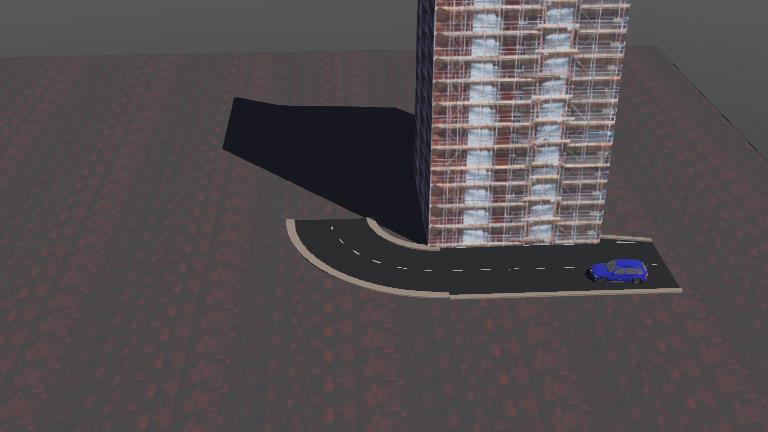
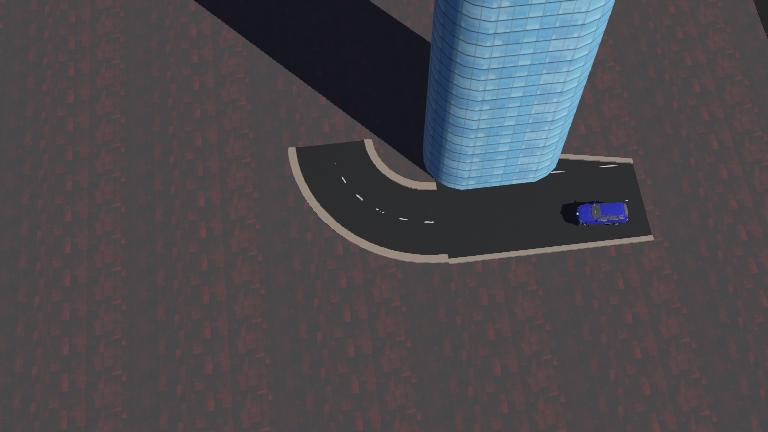
Trying the new code
In this update, I've tried changing parts of my code with the example that was given. While it is a far simpler version of the math that they use, I believe it has some merit to it

diff --git a/controllers/Hondaodyssey/Hondaodyssey.py b/controllers/Hondaodyssey/Hondaodyssey.py
@@ -97,31 +97,25 @@ while driver.step() != -1:
             pixel_count = 0
             
             #Scan the bottom section of the screen
-            start_y = int(height * 0.4)
+            start_y = int(height * 0.6)
             end_y = int(height * 0.9)
             #STOP GOING TO THE LEFT
-            start_x = int(width * 0.4)
             for y in range(start_y, end_y, 2):
-                for x in range(start_x, width, 2):
+                for x in range(int(width * 0.5), width, 2): # Look at the WHOLE road
                     #Finding the pixel colors:
                     r, g, b = image[x][y]
                     brightness = r + g + b
-                    
                     #if the pixels are very bright:
-                    r_prev, g_prev, b_prev = image[x-2][y]
-                    prev_brightness = r_prev + g_prev + b_prev
+                    is_white = brightness > 400 and abs(r - g) < 60 
+                    is_yellow = r > 160 and g > 130 and b < 100 and (r - b) > 60
                     
-                    edge_strength = abs(brightness - prev_brightness)
-                    
-                    #if the pixels are very bright:
-                    if edge_strength > 150 and brightness > 350: 
+                    if is_white or is_yellow:
                         sum_x += x
                         pixel_count += 1
-            
             #left lane keeping logic
-            if pixel_count > 0:
+            if pixel_count > 6:
                 average_x = sum_x / pixel_count
-                target_x = width * 0.85 
+                target_x = width * 0.75 
                 
                 error = (average_x - target_x) / width #Error = how far it is from the center
                 
@@ -130,22 +124,20 @@ while driver.step() != -1:
                 d_term = (error - last_error) * 10.0
                 current_steering = p_term + d_term
                 
+                turn_factor = 1.0 - abs(current_steering) * 1.2
+                current_speed = max(5.0, 20.0 * turn_factor)
+                
                 last_error = error
                 last_steering = current_steering
+                driver.setBrakeIntensity(0.0)
             else:
                 #FIND THE LINE TWIN
-                if last_error > 0:
-                    current_steering = 0.5
-                elif last_error < 0:
-                    current_steering = -0.5
-                else:
-                    current_steering = 0.0
+                driver.setBrakeIntensity(0.2)
+                current_steering = last_steering
+                current_speed = 4.0
             print(f"I see {pixel_count} pixels. Steering: {current_steering}")
     #Safety clamp for the Honda steering limits
-    if current_steering > 0.5:
-        current_steering = 0.5
-    elif current_steering < -0.5:
-        current_steering = -0.5
+    current_steering = max(-0.5, min(0.5, current_steering))
         
     driver.setCruisingSpeed(current_speed)
     driver.setSteeringAngle(current_steering)
